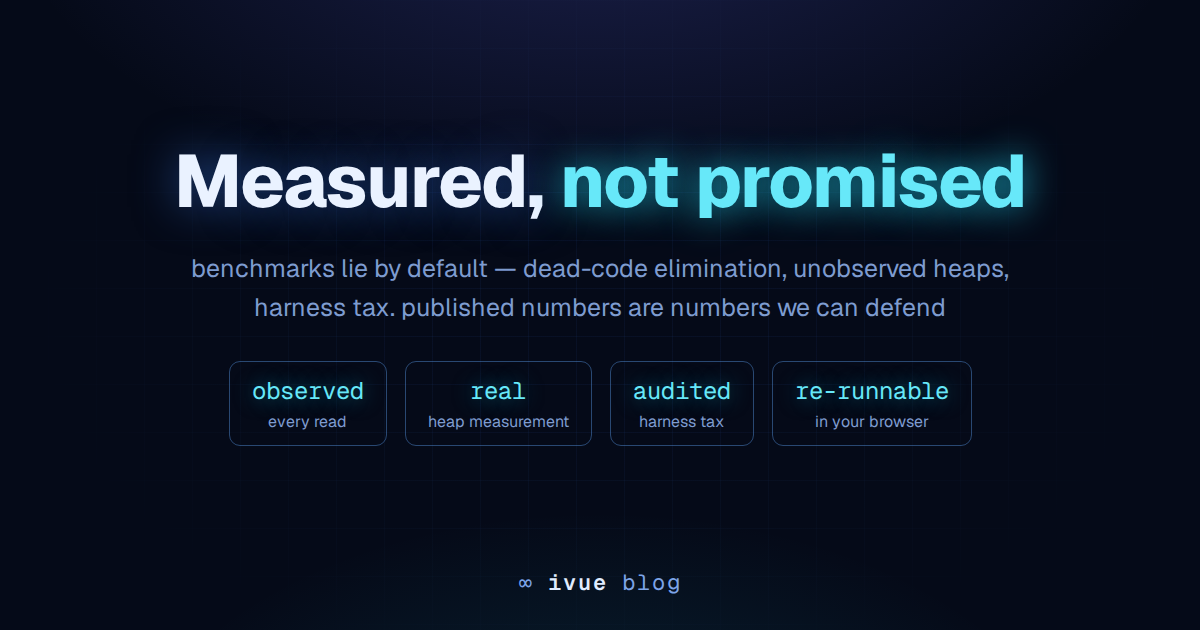
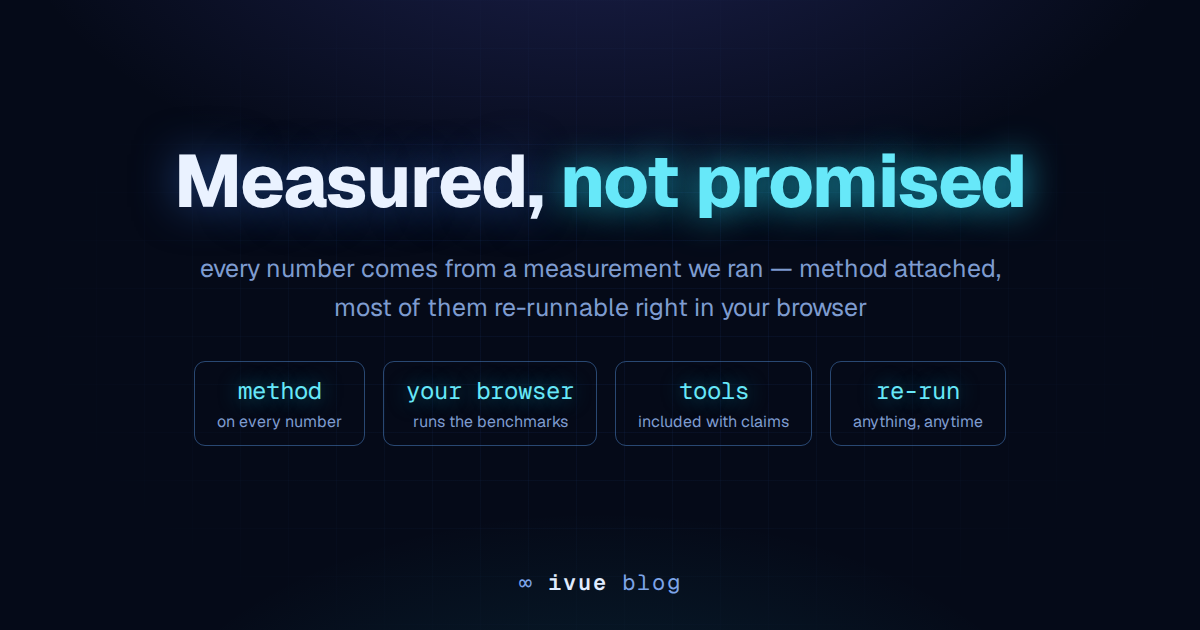
blog(measured): full rewrite in the affirmative — we measured, here's how, run it yourself
The lies/confession framing is gone entirely. Three habits: every
number carries its method, the benchmarks run in the reader's browser,
the tools ship with the claims. Banner rewritten to match.

diff --git a/.claude/skills/blog-banner/banners/measured-not-promised.html b/.claude/skills/blog-banner/banners/measured-not-promised.html
@@ -80,12 +80,12 @@
   <div class="grid"></div>
   <div class="stage">
     <div class="title">Measured, <span class="glow">not promised</span></div>
-    <div class="sub">benchmarks lie by default — dead-code elimination, unobserved heaps,<br/>harness tax. published numbers are numbers we can defend</div>
+    <div class="sub">every number comes from a measurement we ran — method attached,<br/>most of them re-runnable right in your browser</div>
     <div class="stats">
-      <div class="stat"><span class="n">observed</span><span class="l">every read</span></div>
-      <div class="stat"><span class="n">real</span><span class="l">heap measurement</span></div>
-      <div class="stat"><span class="n">audited</span><span class="l">harness tax</span></div>
-      <div class="stat"><span class="n">re-runnable</span><span class="l">in your browser</span></div>
+      <div class="stat"><span class="n">method</span><span class="l">on every number</span></div>
+      <div class="stat"><span class="n">your browser</span><span class="l">runs the benchmarks</span></div>
+      <div class="stat"><span class="n">tools</span><span class="l">included with claims</span></div>
+      <div class="stat"><span class="n">re-run</span><span class="l">anything, anytime</span></div>
     </div>
   </div>
   <div class="brand">∞ <b>ivue</b> blog</div>

diff --git a/docs_v2/blog/measured-not-promised.md b/docs_v2/blog/measured-not-promised.md
@@ -1,6 +1,6 @@
 ---
 title: "Measured, not promised"
-description: Benchmarks lie by default — and our own harness hid a 3× difference before we caught it. What it took to publish numbers we'd defend, run live in the reader's browser.
+description: Every performance number on this site comes from a measurement we ran — with its method attached, most of them re-runnable right in your browser, on the shipped engine. Measured, not promised. That's the whole idea.
 date: 2026-07
 ---
 
@@ -10,25 +10,38 @@ date: 2026-07
 
 ![Measured, not promised](/blog/measured-not-promised.png)
 
-Every library's benchmarks are flattering. Not because authors lie —
-because **benchmarks lie by default**, and it takes real work to stop
-them. Building ivue's numbers, our own harness lied to us before any
-competitor's could — this post is the confession, because the failure
-mode lives in your benchmarks too.
+Every performance claim on this site comes from a measurement we
+actually ran. That's the whole idea behind the phrase this post is
+named after: **measured, not promised** — we did the measuring, and
+you keep the ability to check.
 
-**The harness tax.** Timing operations through a per-call closure added
-a constant cost to every variant — large enough to hide a 3× difference
-between two method-call styles. The operations were honest; the
-*measurement* wasn't. Loop inside the timed region, or you are
-measuring the harness instead of the code.
+Three habits make that real.
 
-What survived the discipline ships on the [Performance by
-Design](/guide/performance) page with its protocol attached — and the
-sharpest habit we kept: **run the numbers in the reader's browser**, on
-the shipped engine, where no one can quietly pick the machine:
+**Every number carries its method.** A figure on this site names
+what was measured, at what scale, on which engine — "Measured on
+Vue 3.5, 20,000 instances, one full read pass" — so you can repeat
+it, on your hardware, and see what you get. And when a sentence
+describes a behavior, that behavior was executed before the
+sentence was written: components mounted, watchers fired, heaps
+snapshotted. The method travels with the number, always.
+
+**The benchmarks run in your browser.** The best machine to measure
+ivue on is yours — so the load-bearing numbers execute live, right
+here, on the same engine that ships to npm. Press the button and
+watch your own hardware produce them:
 
 <DemoPerf />
 
-If a claim can't survive its own methodology section, it isn't a result —
-it's marketing with axes. Steal the harness patterns; they're described
-under [Methodology](/guide/benchmarks#methodology).
+**The tools come with the claims.** The full
+[benchmark protocol](/guide/benchmarks#methodology) is published.
+The [import-cycle audit](/blog/circular-imports-dissolved) is
+seventy dependency-free lines you can point at your own codebase.
+The census scripts behind the
+[discipline numbers](/blog/the-zeros-didnt-move) are printed in the
+posts that cite them. Everything we measured, you can measure —
+including on your own project.
+
+Numbers age; machines differ; engines improve. The method is the
+part that stays true — which is why every number here brings it
+along. Measured, not promised. That's all it means, and it's
+enough.
